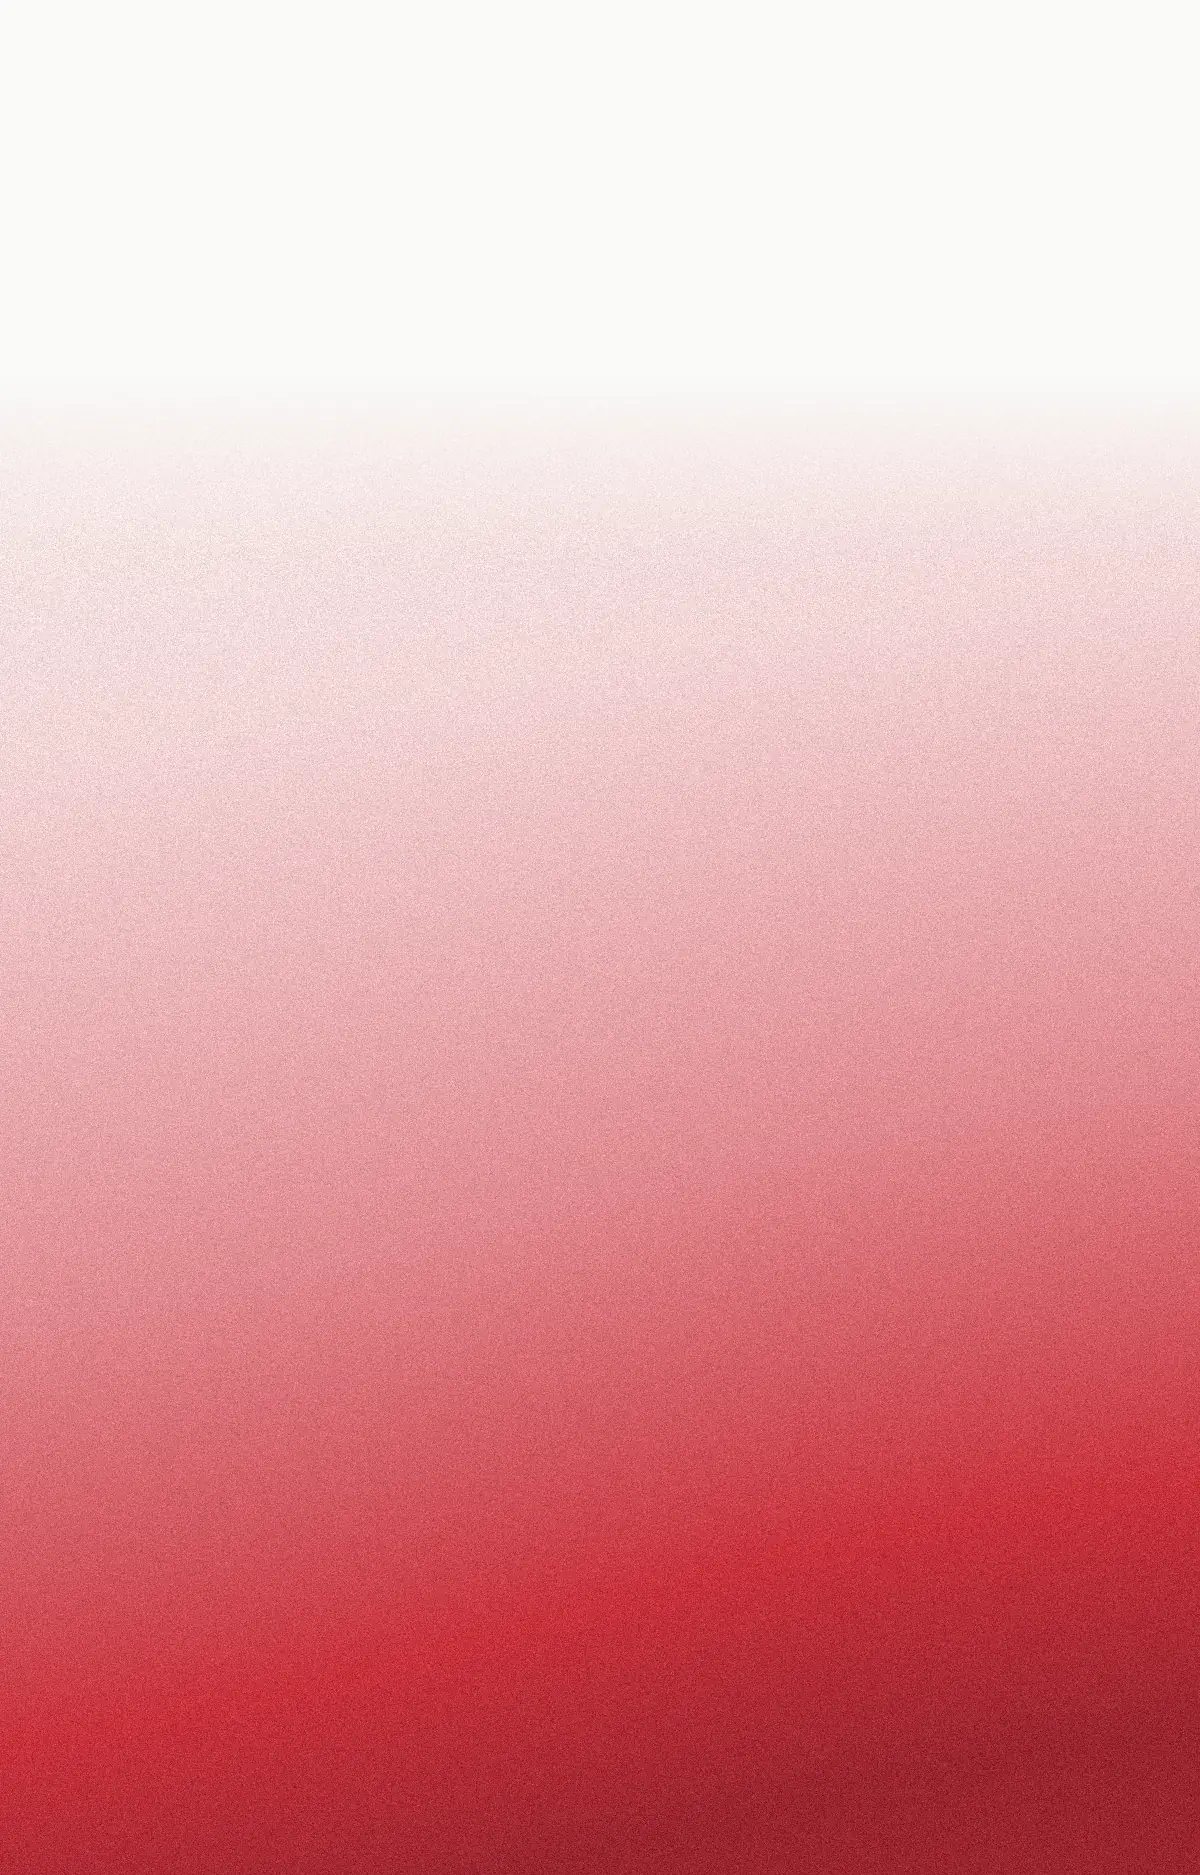
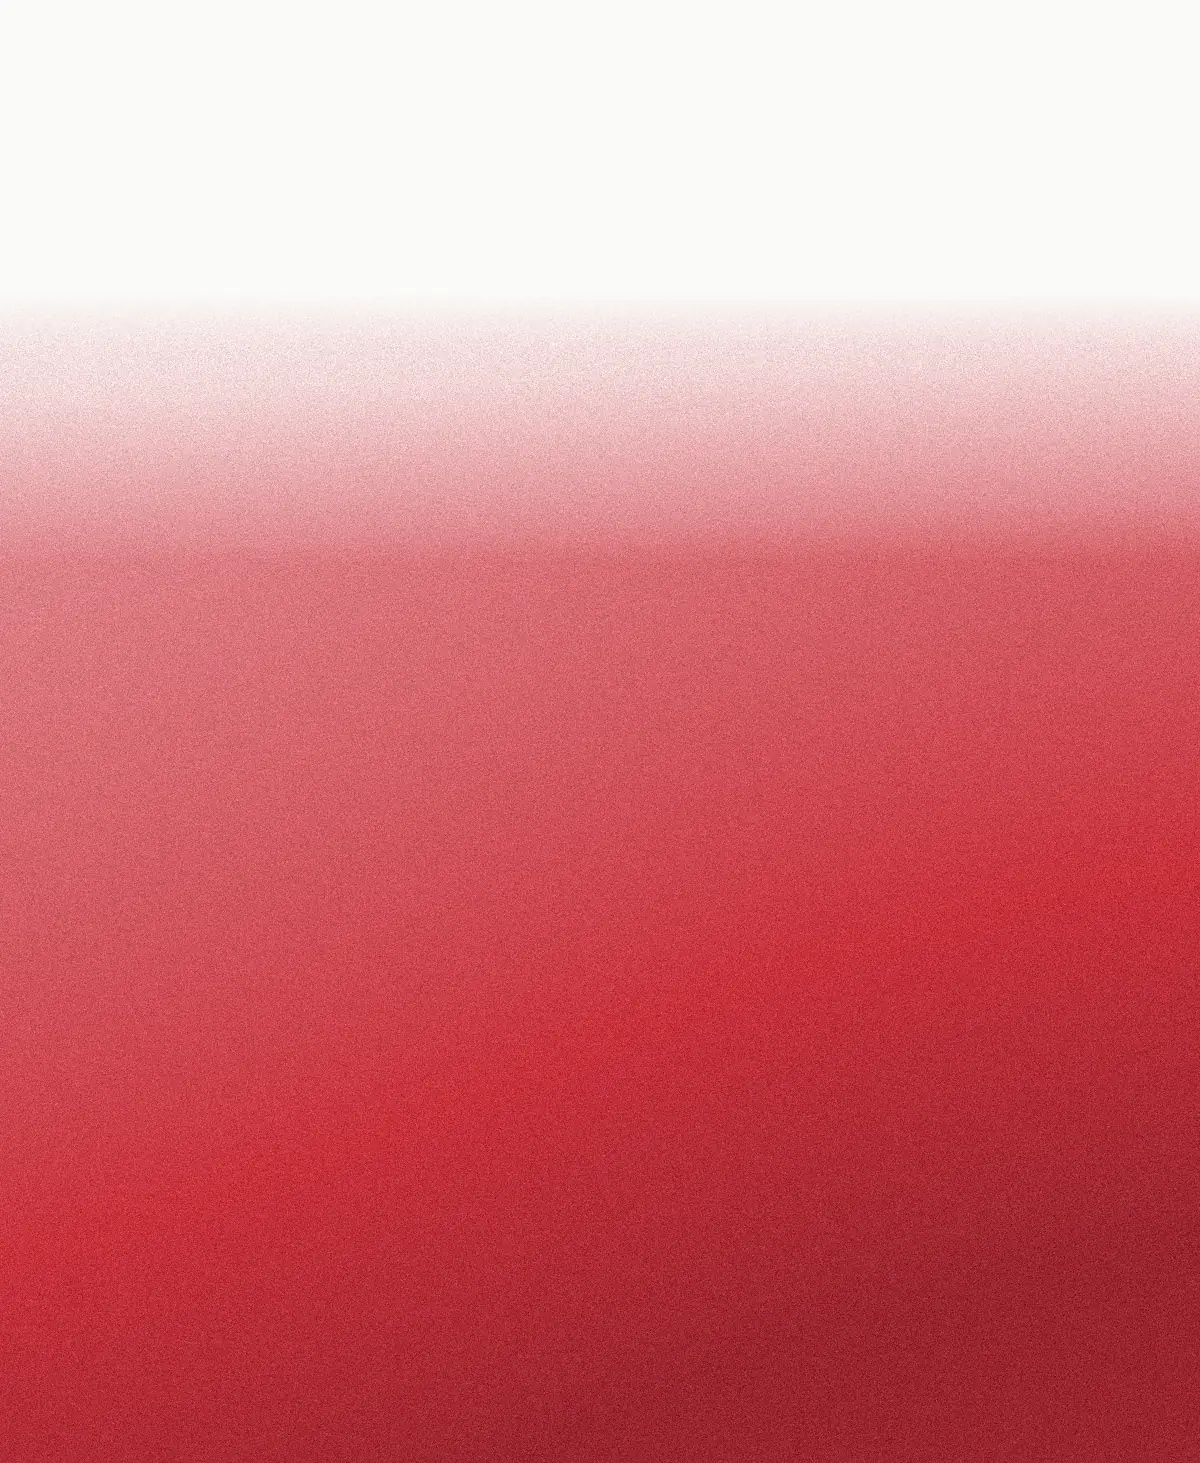
chore(texturas): rampa más corta (v2.2, 1,3 × rojo) — sobre la mitad de la pantalla queda papel
QA desktop de Fabrizio: el rojo pleno en los 26 vh inferiores del hero y 40 del
cierre, y la rampa hasta papel en 1,3 × el rojo en vez de 1,67. La rampa va en
dos tramos (1 → 0,6 hasta ROJO, 0,6 → 0 hasta 1,3 × ROJO); las imágenes miden
1,625 × ROJO con el 20 % de papel puro arriba. Set regenerado (hero d2x 315 KB,
m2x 126 KB) y OG con la misma receta.

diff --git a/tools/texturas/generar.py b/tools/texturas/generar.py
@@ -4,7 +4,7 @@ Generador de texturas de marca — refranco.ai
 Receta aprobada 06-sep-2026 (chat landing): composición F3i-b, paleta T1, grano 0,035.
 Regla de composición v2 (QA de Fabrizio, 07-sep-2026): el rojo ocupa una ALTURA FIJA
 medida desde abajo (`rojo`, en px de la imagen), no una proporción del lienzo. Sobre el
-bloque rojo la rampa sigue hasta papel en 1,67 × rojo (0,6 = rojo pleno); lo que quede
+bloque rojo la rampa sigue hasta papel en RAMPA × rojo (1,3 desde FASE 1.5; 0,6 = rojo pleno); lo que quede
 más arriba es papel liso #FAFAF8 puro y SIN grano (v2.1), que es el fondo de la página, así la
 imagen se puede recortar por arriba sin costura; el CSS además la enmascara en el borde superior. En CSS la banda se sirve con altura fija en vh y `object-fit:
 cover` anclado abajo: hero 62,5 svh (rojo = 30 vh), cierre 104 svh (rojo = 50 vh), con un 20 % de papel puro arriba.
@@ -12,13 +12,15 @@ cover` anclado abajo: hero 62,5 svh (rojo = 30 vh), cierre 104 svh (rojo = 50 vh
 Uso:
   python tools/texturas/generar.py banda ANCHO ALTO ROJO salida.webp
   # set de la landing (2x/3x, servido por <picture> + srcset, nada se estira). El alto es
-  # 1,25 × (ROJO / 0,6): el 20 % superior queda de papel puro, que es lo que la máscara CSS
-  # del borde (18 %) funde con el fondo. En CSS la banda mide 62,5 svh (hero) y 104 svh (cierre).
-  python tools/texturas/generar.py banda 1200 1250  600 public/landing/textura-hero-m2x.webp
-  python tools/texturas/generar.py banda 1800 1875  900 public/landing/textura-hero-m3x.webp
-  python tools/texturas/generar.py banda 3000 1250  600 public/landing/textura-hero-d2x.webp
-  python tools/texturas/generar.py banda 1200 1875  900 public/landing/textura-cierre-m2x.webp
-  python tools/texturas/generar.py banda 3000 1875  900 public/landing/textura-cierre-d2x.webp
+  # 1,25 × RAMPA × ROJO: el 20 % superior queda de papel puro, que es lo que la máscara CSS
+  # del borde (18 %) funde con el fondo. En CSS la banda mide 1,625 × el rojo en vh:
+  # hero 48,75 svh (30 vh de rojo) en mobile y 42,25 svh (26 vh) en desktop; cierre 81,25 svh
+  # (50 vh) en mobile y 65 svh (40 vh) en desktop.
+  python tools/texturas/generar.py banda 1200  975  600 public/landing/textura-hero-m2x.webp
+  python tools/texturas/generar.py banda 1800 1463  900 public/landing/textura-hero-m3x.webp
+  python tools/texturas/generar.py banda 3000  975  600 public/landing/textura-hero-d2x.webp
+  python tools/texturas/generar.py banda 1200 1463  900 public/landing/textura-cierre-m2x.webp
+  python tools/texturas/generar.py banda 3000 1463  900 public/landing/textura-cierre-d2x.webp
   python tools/texturas/generar.py banda 1200  630  190 public/landing/og-hero.jpg   # OG (JPEG: Satori no lee WebP)
   # receta v1 (proporción del lienzo), por si hace falta reproducirla:
   python tools/texturas/generar.py hero 1440 1600 salida.webp · cierre 1440 1000 salida.webp
@@ -65,12 +67,16 @@ def colormap(v):
         out[m] = hexc(c0) * (1 - t) + hexc(c1) * t
     return out
 
+RAMPA = 1.3  # v2.2 (FASE 1.5): el papel llega a 1,3 × rojo (antes 1,67): rampa más corta
+
 def bias_banda(h, rojo):
-    """v2: rampa desde abajo. v = 1 en el borde inferior, 0,6 (rojo pleno) a `rojo` px,
-    0 (papel) a 1,67 × rojo; más arriba, papel liso."""
+    """v2.2: rampa desde abajo, en dos tramos. v = 1 en el borde inferior y 0,6 (rojo
+    pleno) a `rojo` px; de ahí baja a 0 (papel) en RAMPA × rojo; más arriba, papel liso."""
     def fn(x, y):
         d = (1 - y) * h                      # px desde abajo
-        return np.clip(1 - d / (rojo / 0.6), 0, 1)
+        t = d / rojo
+        v = np.where(t <= 1, 1 - 0.4 * t, 0.6 * (RAMPA - t) / (RAMPA - 1))
+        return np.clip(v, 0, 1)
     return fn
 
 def render(kind, w, h, out, seed=7, rojo=None):
